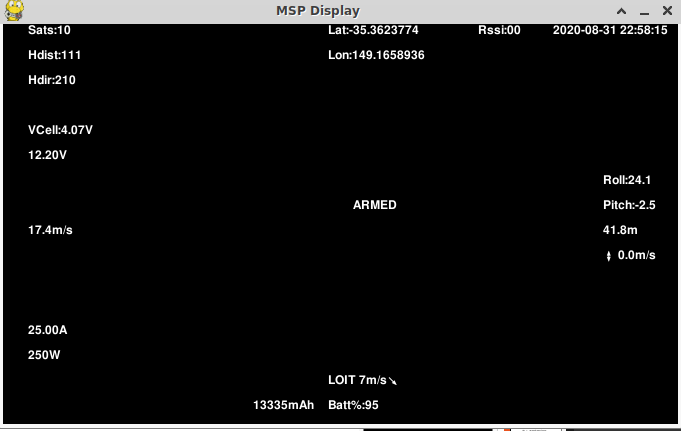
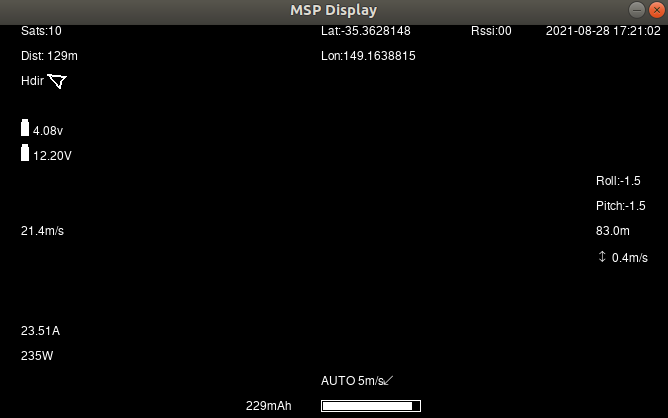
MSP: multiple screen info
added multiple screen info and updated the supported panels with some details

Changed region(s): [[0.0, 0.0, 1.0, 1.0], [0.509, 0.4665, 0.5988, 0.4976]]

diff --git a/common/source/docs/common-msp-osd-overview.rst b/common/source/docs/common-msp-osd-overview.rst
@@ -4,20 +4,27 @@
 MSP OSD
 =======
 
+DJI V1 FPV Goggles
+
  .. image:: ../../../images/msp_dji_fpv_goggles.jpeg
     :target: ../_images/msp_dji_fpv_goggles.jpeg
 
+ 
+ DJI Goggles RE
+ 
  .. image:: ../../../images/msp_dji_goggles_re.jpeg
     :target: ../_images/msp_dji_goggles_re.jpeg
  
-ArduPilot supports the special MSP OSD protocol which allows displaying flight data on the DJI goggles, much like with external MAVLink OSDs or the internal integrated OSD in many flight controllers.
+
+ArduPilot supports the MSP OSD protocol which allows displaying flight data on the DJI goggles, much like with external MAVLink OSDs or the internal integrated OSD in many flight controllers.
 
 Features
 ========
  
- - ArduPilot currently supports many, but not all, of the OSD panel items as noted in the section below.
+ - ArduPilot currently supports all of the OSD panel items provided by the V1 and V2 DJI FPV Goggles, details in the table below.
  - Changing display units other than metric and imperial are not currently supported.
- - Multiple screens and remote switching of those screens is not supported.
+ - Multiple screens and remote switching of those screens is supported.
+ - Displaying statistcis on a dedicated screen is supported, see below for details.
  - Warning levels for RSSI, Voltage, etc. currently not supported
 
 Configuration
@@ -31,32 +38,68 @@ To enable MSP OSD, set the following parameters (using SERIAL port 2 as the port
 
 .. note:: DJI OSD must be enabled: in SETTINGS->DISPLAY->CUSTOM OSD menu of goggles
 
-Panel Items Currently Supported
+OSD Panel Items
 ===============================
 
-- Messages
-- Altitude
-- Bat_volt
-- Bat mah
-- Average cell voltage
-- RSSI
-- Current
-- Batused % as horizontal gauge
-- Sats
-- Fight mode
-- Ground speed
-- Airspeed (only as override of ground speed)
-- Vertical Speed
-- Wind Direction and Distance
-- Home Direction
-- Home Distance
-- Roll_angle
-- Pitch_angle
-- ESC Temperature
-- Clock
-- Gps_latitude
-- Gps_longitude
-- Arming status
++---------------+------------------------------------------------------------------------------------------------------------------------------------------------------------------------------------------------------------------------------------------------------------------------------------------------------+
+| OSD Parameter | Notes                                                                                                                                                                                                                                                                                                |
++===============+======================================================================================================================================================================================================================================================================================================+
+| OSDn_ALTITUDE |                                                                                                                                                                                                                                                                                                      |
++---------------+------------------------------------------------------------------------------------------------------------------------------------------------------------------------------------------------------------------------------------------------------------------------------------------------------+
+| OSDn_ARMING   |                                                                                                                                                                                                                                                                                                      |
++---------------+------------------------------------------------------------------------------------------------------------------------------------------------------------------------------------------------------------------------------------------------------------------------------------------------------+
+| OSDn_ASPEED   | Please refer to OSDn_GSPEED for more info on enabling airspeed display                                                                                                                                                                                                                               |
++---------------+------------------------------------------------------------------------------------------------------------------------------------------------------------------------------------------------------------------------------------------------------------------------------------------------------+
+| OSDn_BAT_VOLT |                                                                                                                                                                                                                                                                                                      |
++---------------+------------------------------------------------------------------------------------------------------------------------------------------------------------------------------------------------------------------------------------------------------------------------------------------------------+
+| OSDn_BATBAR   |                                                                                                                                                                                                                                                                                                      |
++---------------+------------------------------------------------------------------------------------------------------------------------------------------------------------------------------------------------------------------------------------------------------------------------------------------------------+
+| OSDn_BATUSED  | Consumed mAh                                                                                                                                                                                                                                                                                         |
++---------------+------------------------------------------------------------------------------------------------------------------------------------------------------------------------------------------------------------------------------------------------------------------------------------------------------+
+| OSDn_CELLVOLT | Average cell voltage, if automatic cell detection fails please override with MSP_OSD_NCELLS                                                                                                                                                                                                          |
++---------------+------------------------------------------------------------------------------------------------------------------------------------------------------------------------------------------------------------------------------------------------------------------------------------------------------+
+| OSDn_CLK      |                                                                                                                                                                                                                                                                                                      |
++---------------+------------------------------------------------------------------------------------------------------------------------------------------------------------------------------------------------------------------------------------------------------------------------------------------------------+
+| OSDn_CRSSHAIR |                                                                                                                                                                                                                                                                                                      |
++---------------+------------------------------------------------------------------------------------------------------------------------------------------------------------------------------------------------------------------------------------------------------------------------------------------------------+
+| OSDn_CURRENT  |                                                                                                                                                                                                                                                                                                      |
++---------------+------------------------------------------------------------------------------------------------------------------------------------------------------------------------------------------------------------------------------------------------------------------------------------------------------+
+| OSDn_ESCTEMP  | On DJI V1/V2 Goggles this will report the highest ESC temperature                                                                                                                                                                                                                                    |
++---------------+------------------------------------------------------------------------------------------------------------------------------------------------------------------------------------------------------------------------------------------------------------------------------------------------------+
+| OSDn_FLTMODE  | DJI hardware does not support ArduPilot's flight modes! This item will generally be blank and only show !FS! while in failsafe!                                                                                                                                                                      |
++---------------+------------------------------------------------------------------------------------------------------------------------------------------------------------------------------------------------------------------------------------------------------------------------------------------------------+
+| OSDn_GPSLAT   |                                                                                                                                                                                                                                                                                                      |
++---------------+------------------------------------------------------------------------------------------------------------------------------------------------------------------------------------------------------------------------------------------------------------------------------------------------------+
+| OSDn_GPSLONG  |                                                                                                                                                                                                                                                                                                      |
++---------------+------------------------------------------------------------------------------------------------------------------------------------------------------------------------------------------------------------------------------------------------------------------------------------------------------+
+| OSDn_GSPEED   | This item shows ground speed unless OSDn_ASPEED_EN = 1 in which case it will show true airspeed if an airspeed sensor is present or estimated airspeed otherwise. The position on screen is set by OSDn_GSPEED_X and OSDn_GSPEED_Y irregardless of the value of OSDn_ASPEED_EN                       |
++---------------+------------------------------------------------------------------------------------------------------------------------------------------------------------------------------------------------------------------------------------------------------------------------------------------------------+
+| OSDn_HEADING  | Not supported by DJI V1/V2 Goggles                                                                                                                                                                                                                                                                   |
++---------------+------------------------------------------------------------------------------------------------------------------------------------------------------------------------------------------------------------------------------------------------------------------------------------------------------+
+| OSDn_HOMEDIR  |                                                                                                                                                                                                                                                                                                      |
++---------------+------------------------------------------------------------------------------------------------------------------------------------------------------------------------------------------------------------------------------------------------------------------------------------------------------+
+| OSDn_HOMEDIST |                                                                                                                                                                                                                                                                                                      |
++---------------+------------------------------------------------------------------------------------------------------------------------------------------------------------------------------------------------------------------------------------------------------------------------------------------------------+
+| OSDn_HORIZON  | Not supported by DJI V1/V2 Goggles                                                                                                                                                                                                                                                                   |
++---------------+------------------------------------------------------------------------------------------------------------------------------------------------------------------------------------------------------------------------------------------------------------------------------------------------------+
+| OSDn_MESSAGE  | This will display status text messages as rolling text. Status text messages will be hidden after a couple seconds and the panel will show the current flightmode. If OSDn_WIND_EN is set to 1, this item will also display wind info next to the current flight mode as a rotating arrow and speed. |
++---------------+------------------------------------------------------------------------------------------------------------------------------------------------------------------------------------------------------------------------------------------------------------------------------------------------------+
+| OSDn_PITCH    |                                                                                                                                                                                                                                                                                                      |
++---------------+------------------------------------------------------------------------------------------------------------------------------------------------------------------------------------------------------------------------------------------------------------------------------------------------------+
+| OSDn_POWER    |                                                                                                                                                                                                                                                                                                      |
++---------------+------------------------------------------------------------------------------------------------------------------------------------------------------------------------------------------------------------------------------------------------------------------------------------------------------+
+| OSDn_ROLL     |                                                                                                                                                                                                                                                                                                      |
++---------------+------------------------------------------------------------------------------------------------------------------------------------------------------------------------------------------------------------------------------------------------------------------------------------------------------+
+| OSDn_RSSI     |                                                                                                                                                                                                                                                                                                      |
++---------------+------------------------------------------------------------------------------------------------------------------------------------------------------------------------------------------------------------------------------------------------------------------------------------------------------+
+| OSDn_SATS     | On DJI V1/V2 Goggles when there's no fix it will report 14 sats, this is a known DJI bug                                                                                                                                                                                                             |
++---------------+------------------------------------------------------------------------------------------------------------------------------------------------------------------------------------------------------------------------------------------------------------------------------------------------------+
+| OSDn_SIDEBARS | Not supported by DJI V1/V2 Goggles                                                                                                                                                                                                                                                                   |
++---------------+------------------------------------------------------------------------------------------------------------------------------------------------------------------------------------------------------------------------------------------------------------------------------------------------------+
+| OSDn_VSPEED   |                                                                                                                                                                                                                                                                                                      |
++---------------+------------------------------------------------------------------------------------------------------------------------------------------------------------------------------------------------------------------------------------------------------------------------------------------------------+
+| OSDn_WIND     | Please refer to OSDn_MESSAGE for wind speed and direction rendering                                                                                                                                                                                                                                  |
++---------------+------------------------------------------------------------------------------------------------------------------------------------------------------------------------------------------------------------------------------------------------------------------------------------------------------+
 
 
 OSD Panel Item Configuration
@@ -64,12 +107,45 @@ OSD Panel Item Configuration
 
 Each OSD panel item uses a set of three variables to be set: 
 
-- ``OSDn_ITEM_ENABLE`` - activates the respective item when set to 1.
-- ``OSDn_ITEM_X`` and ``OSDn_ITEM_Y`` set the horizontal and vertical position of the item, starting with ``X = 0`` and ``Y = 0`` in the upper left corner of your screen. 
+- ``OSDn_<ITEM>_EN`` - activates the respective item when set to 1.
+- ``OSDn_<ITEM>_X`` and ``OSDn_<ITEM>_Y`` set the horizontal and vertical position of the item, starting with ``X = 0`` and ``Y = 0`` in the upper left corner of your screen. 
 
 .. note::    ArduPilot calculates a sensor-less airspeed estimate that is used if no sensor is present or fails. ARSPD_TYPE must be set to zero in order to display this value as the airspeed item, if no sensor is present.
     
 
+Screens and screen switching 
+============================
+
+For multiple screen layouts, each parameter's "OSD" part is trailed by a number, starting with "1"
+
+* ``OSD1_<ITEM>`` - This number addresses the respective screen layout number, allowing to set individual items active on one screen but have them switched off on another screen. OSD settings default to 4 screens optionally available.
+
+* Set parameters ``OSDn_CHAN_MIN`` and ``OSDn_CHAN_MAX`` to adjust RC channel pwm limits to use for switching to a respective screen.
+
+There are different switch-method options to meet individual RC systems switch layout requirements. 
+These can be set by parameter: :ref:`OSD_SW_METHOD<OSD_SW_METHOD>`.
+The options are:
+
+- 0 = switches to next screen if the set RC channel's (:ref:`OSD_CHAN<OSD_CHAN>`) value is changed
+- 1 = directly selects a screen based on the set pwm limits for each respective screen. RC channel value must change for new pwm value to be recognized.
+- 2 = toggles screens on a low to high transition of set RC channel. keeps toggling to next screen every 1s while channel value is kept high
+
+Displaying statistics on a dedicated screen
+===========================================
+
+Displaying statistics on a dedicated screen requires enabling at least one extra screen by setting the respective OSDn_ENABLE to 1.
+By default ArduPilot has only one screen active so in a typical setup one would set (:ref:`OSD2_ENABLE<OSD2_ENABLE>`) = 1.
+Next step is to enable the OSD stats panel on the newly enabled screen by setting (:ref:`OSD2_STATS_EN<OSD2_STATS_EN>`) = 1.
+
+When the OSD switches to this screen it will check the value of the OSD2_STATS_EN parameter and if enabled it will override the defaut behaviour of the following OSD items
+ - OSDn_MESSAGE will display STATS followed by flight time
+ - OSDn_ALTITUDE will display max altitude
+ - OSDn_BAT_VOLT will display min voltage
+ - OSDn_CURRENT will display max current
+ - OSDn_GSPEED will display max ground speed (or airspedd is OSDn_ASPEED_EN is set to 1)
+ - OSDn_HOMEDIST will alternates max distance from home and total traveled distance every 2 seconds
+ - OSDn_RSSI will display min rssi
+ 
 Testing OSD with SITL
 =====================
 
@@ -83,11 +159,15 @@ A graphical DJI style MSP OSD simulation in a separate window will be opened wit
 
 .. note:: You could also use these parameters to initially setup the MSP OSD configuration for use with goggles, but you may have to change the ``SERIALx_PROTOCOL`` parameter to match the actual serial port that you will be using.
 
-.. note:: The emulation does not support multiple screens or units other than metric
+.. note:: The emulation supports multiple screens and stats
 
+.. note:: The emulation does not support units other than metric
 
 .. image:: ../../../images/msp_osd_python.png
    :target: ../_images/msp_osd_python.png
+
+.. image:: ../../../images/msp_osd_python_stats.png
+   :target: ../_images/msp_osd_python_stats.png
 
 By changing the OSD panel items' parameters, a live update on their placement can be seen in this emulator.
 
